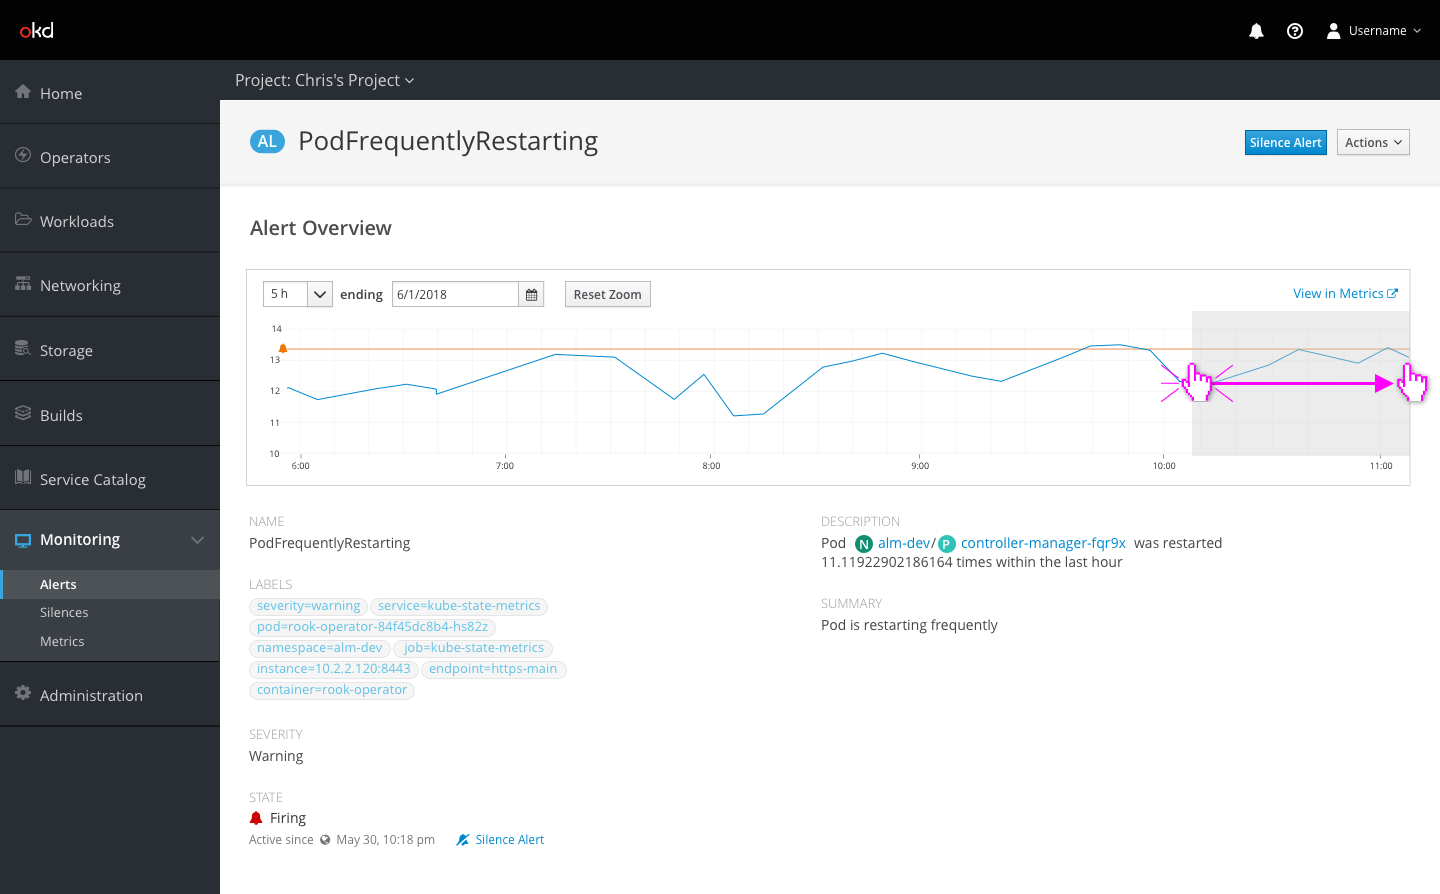
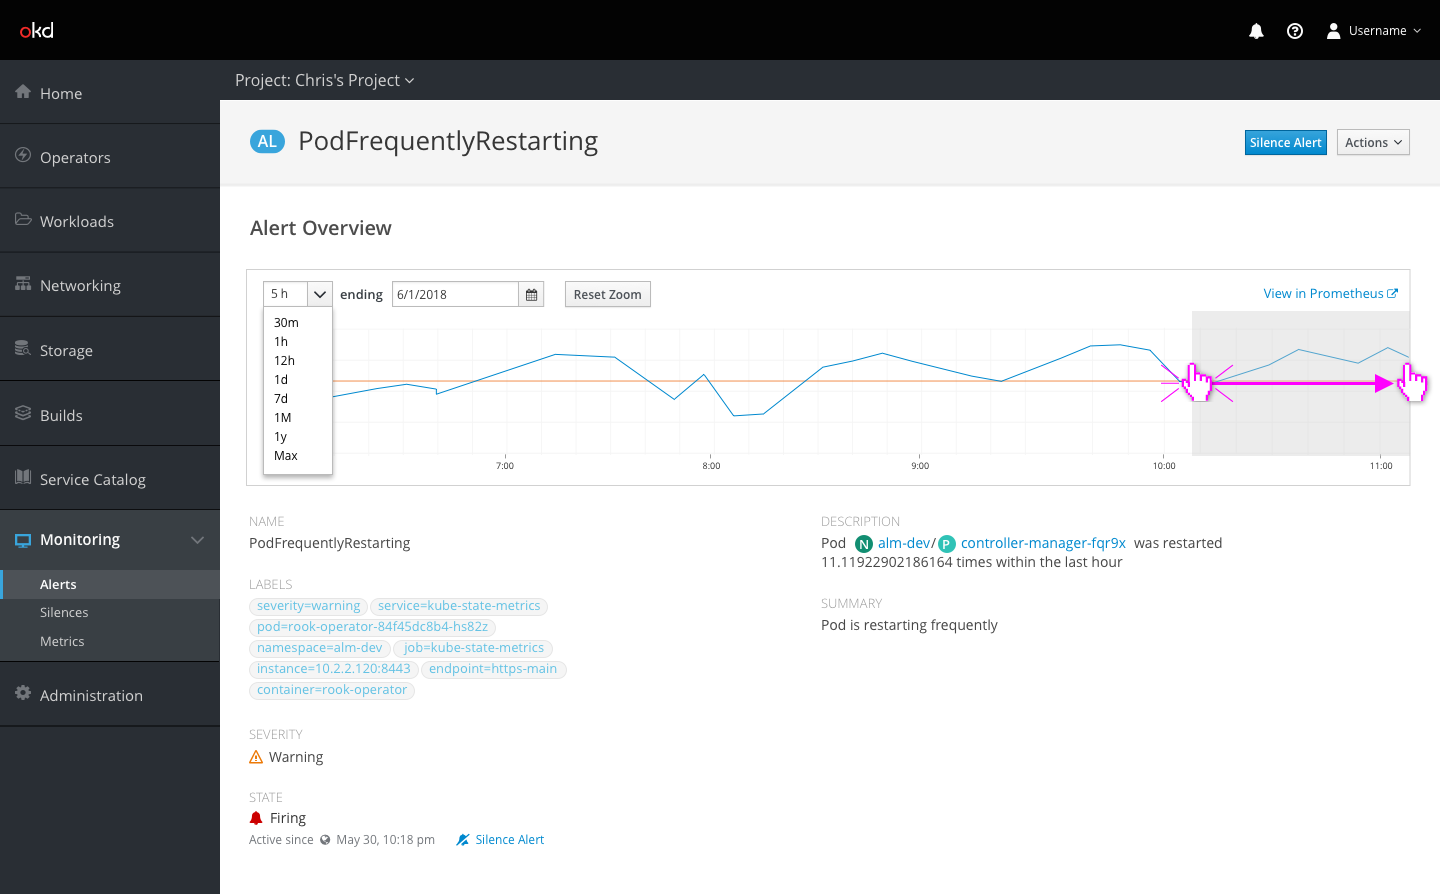
Add alert rule metrics and fix terminology

diff --git a/web-console/monitoring/alerts/alerts.md b/web-console/monitoring/alerts/alerts.md
@@ -1,15 +1,19 @@
 # Alerts
 
 ## Alert Metrics
-
 ![Alert details view with metrics](img/alert-metrics.png)
-- Initially the chart should be zoomed to a time period that at least includes the `for` attribute of the alert, but preferably 3-5 times that period as loading times allow
+- Initially the chart should be zoomed to a time period that at least includes the `for` attribute of the corresponding alert rule, but preferably 3-5 times that period as loading times allow. For instance the above chart shows the last hour where the metric crossed the alert threshold as well as an additional 4 hours of history
 - An orange line with an alert icon (if possible) shows the firing threshold for the alert
-- Clicking on the `View in Metrics` link takes the user to the metrics page (prometheus UI) and pre-populated with the relevant query for the alert
+- Clicking on the `View in Prometheus` link takes the user to the query UI pre-populated with the relevant query for the alert
 
 ![Dragging on chart to zoom in](img/alert-metrics-drag.png)
 - Clicking and dragging on the chart should zoom in so that the selected area fills the chart view
+- The zoom level of the chart can also be changed by typing a specific time period into the combobox or selecting from a number of preset time periods.
 
 ![Zoomed in metrics chart](img/alert-metrics-zoom.png)
 - Zooming can also be done by typing or selecting a new time period above the chart
-- Clicking the `reset zoom` button should reset the scale of the chart to the default based on the alert
+- Clicking the `Reset Zoom` button should reset the scale of the chart to the default based on the alert
+
+## Alert Rule metrics
+![Alert Rule metrics chart](img/alert-rule-metrics.png)
+- Alert Rule details pages contain a similar graph, but with multiple lines representing all the active alerts for that rule
